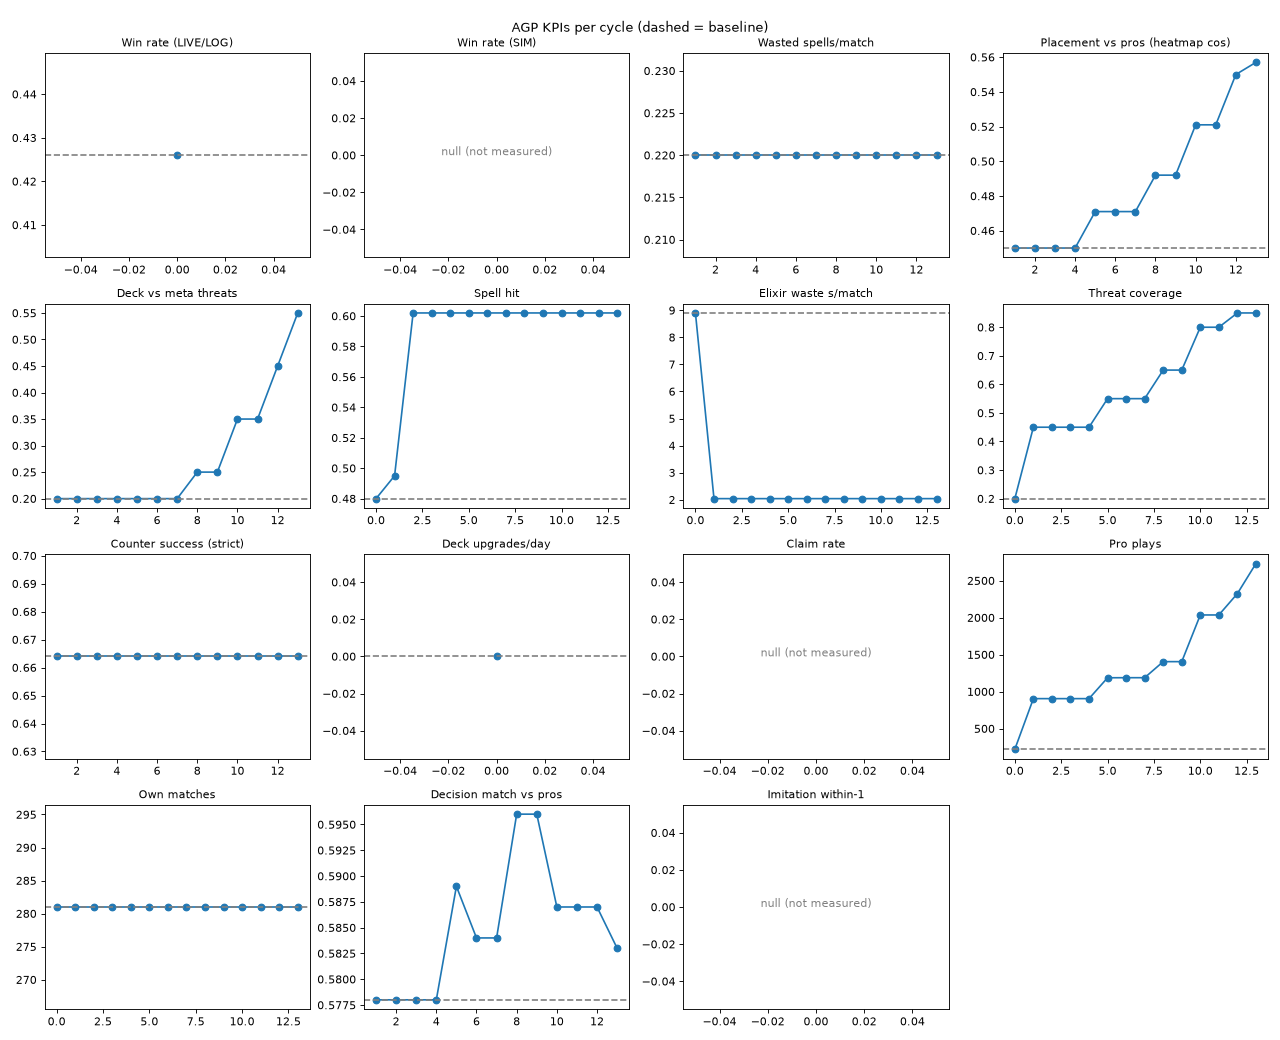
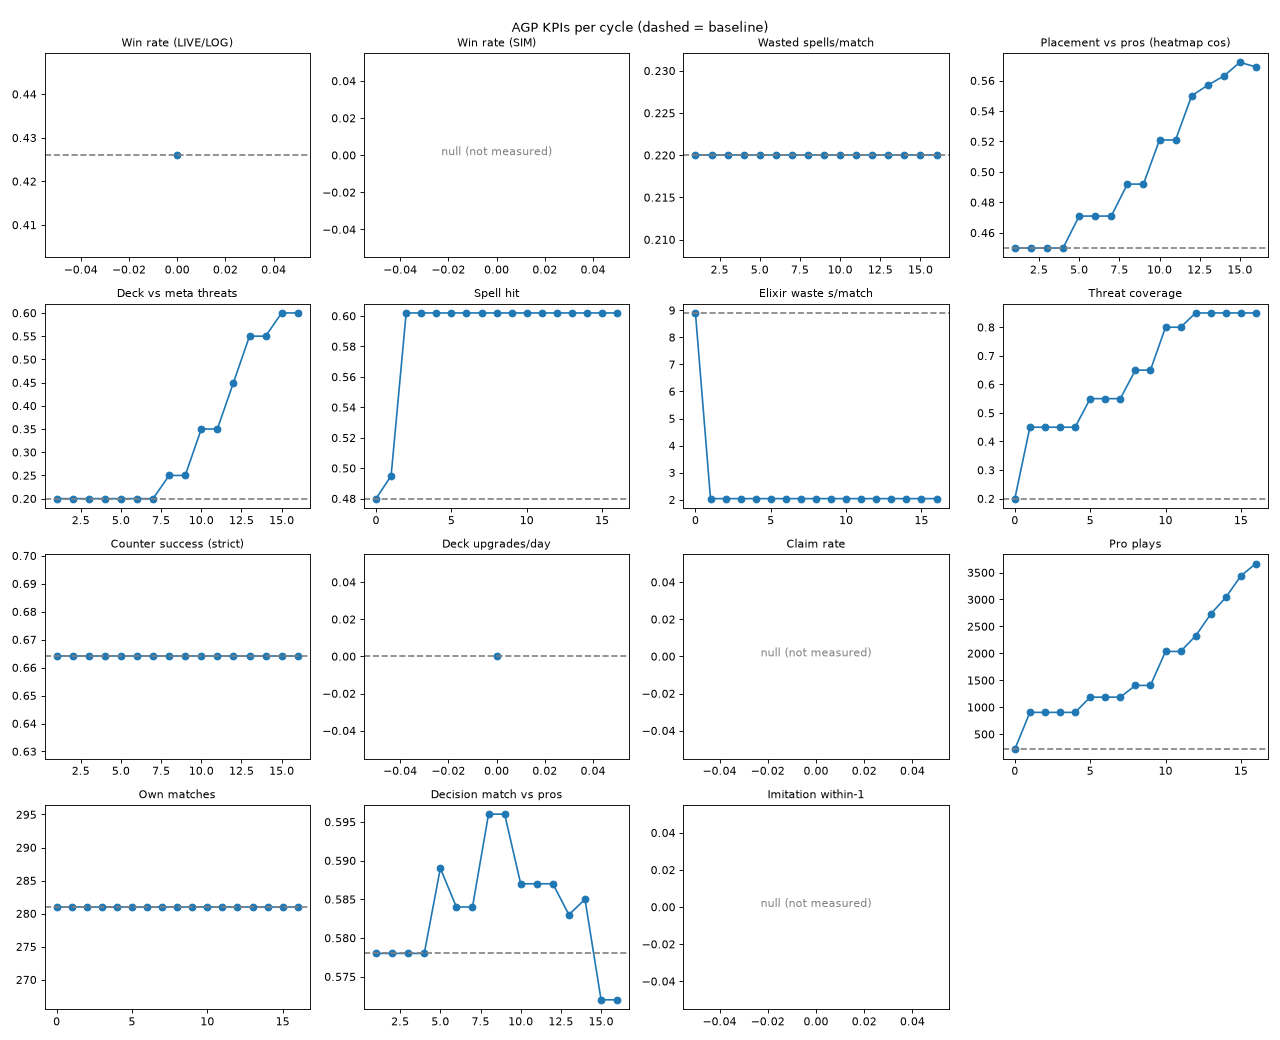
AGP progress dashboard 2026-11-01T15:17:24-08:00

diff --git a/index.html b/index.html
@@ -124,10 +124,10 @@
         <h1>AI Game Player</h1>
         <p class="lede">Progress you can watch — the AI's climb, with receipts.</p>
         <div class="meta-row">
-          <div class="chip">Cycle <strong>#13</strong></div>
+          <div class="chip">Cycle <strong>#16</strong></div>
           <div class="chip">Decision <strong>KEEP</strong></div>
           <div class="chip">Mode <strong>offline</strong></div>
-          <div class="chip">Updated <strong>2026-11-01T10:56:20-08:00</strong></div>
+          <div class="chip">Updated <strong>2026-11-01T15:13:09-08:00</strong></div>
         </div>
         <p class="lede" style="margin-top:18px;font-size:.92rem">Showing SIM / VOD / LOG metrics. Live ladder KPIs stay blank until play is greenlit — practice win rate is never mixed into live win rate.</p>
       </div>
@@ -151,7 +151,7 @@
               <th>Metric</th><th>Baseline</th><th>Current</th><th>Δ</th><th>Trend</th><th>Source</th>
             </tr>
           </thead>
-          <tbody><tr><td class="kpi-name">Win rate<div class="note">Never mix LIVE with SIM/LOG practice WR</div></td><td class="num">42.6%</td><td class="num cur"><span class="pill paused">paused</span></td><td class="num delta flat">—</td><td><span class="trend flat">flat</span></td><td><span class="src">LIVE</span></td></tr><tr><td class="kpi-name">Spell hit rate</td><td class="num">48.0%</td><td class="num cur"><span class="val">60.2%</span></td><td class="num delta up-good">+12.2 pp</td><td><span class="trend up-good">up</span></td><td><span class="src">SIM</span></td></tr><tr><td class="kpi-name">Elixir waste (s)</td><td class="num">8.9</td><td class="num cur"><span class="val">2.04</span></td><td class="num delta down-good">-6.86</td><td><span class="trend down-good">down</span></td><td><span class="src">SIM</span></td></tr><tr><td class="kpi-name">Meta/ladder threat coverage</td><td class="num">20.0%</td><td class="num cur"><span class="val">85.0%</span></td><td class="num delta up-good">+65.0 pp</td><td><span class="trend up-good">up</span></td><td><span class="src">LOG+VOD</span></td></tr><tr><td class="kpi-name">Counter success (strict)</td><td class="num">—</td><td class="num cur"><span class="val">66.4%</span></td><td class="num delta flat">—</td><td><span class="trend flat">flat</span></td><td><span class="src">LOG</span></td></tr><tr><td class="kpi-name">Deck upgrades / day</td><td class="num">0</td><td class="num cur"><span class="val">—</span></td><td class="num delta flat">—</td><td><span class="trend flat">flat</span></td><td><span class="src">LOG</span></td></tr><tr><td class="kpi-name">Reward claim rate</td><td class="num">—</td><td class="num cur"><span class="val">—</span></td><td class="num delta flat">—</td><td><span class="trend flat">flat</span></td><td><span class="src">—</span></td></tr><tr><td class="kpi-name">Pro plays learned</td><td class="num">221</td><td class="num cur"><span class="val">2731</span></td><td class="num delta up-good">+2510</td><td><span class="trend up-good">up</span></td><td><span class="src">VOD</span></td></tr><tr><td class="kpi-name">Own-match sample</td><td class="num">281</td><td class="num cur"><span class="val">281</span></td><td class="num delta flat">0</td><td><span class="trend flat">flat</span></td><td><span class="src">LOG</span></td></tr><tr><td class="kpi-name">Decision-match vs pros</td><td class="num">—</td><td class="num cur"><span class="val">58.3%</span></td><td class="num delta flat">—</td><td><span class="trend flat">flat</span></td><td><span class="src">SIM</span></td></tr><tr><td class="kpi-name">Imitation placement accuracy</td><td class="num">0.23–0.31</td><td class="num cur"><span class="val">—</span></td><td class="num delta flat">—</td><td><span class="trend flat">flat</span></td><td><span class="src">SIM</span></td></tr><tr><td class="kpi-name">Placement accuracy (SIM)</td><td class="num">—</td><td class="num cur"><span class="val">55.7%</span></td><td class="num delta flat">—</td><td><span class="trend flat">flat</span></td><td><span class="src">SIM+VOD</span></td></tr><tr><td class="kpi-name">Deck building vs meta</td><td class="num">—</td><td class="num cur"><span class="val">55.0%</span></td><td class="num delta flat">—</td><td><span class="trend flat">flat</span></td><td><span class="src">LOG+WEB</span></td></tr></tbody>
+          <tbody><tr><td class="kpi-name">Win rate<div class="note">Never mix LIVE with SIM/LOG practice WR</div></td><td class="num">42.6%</td><td class="num cur"><span class="pill paused">paused</span></td><td class="num delta flat">—</td><td><span class="trend flat">flat</span></td><td><span class="src">LIVE</span></td></tr><tr><td class="kpi-name">Spell hit rate</td><td class="num">48.0%</td><td class="num cur"><span class="val">60.2%</span></td><td class="num delta up-good">+12.2 pp</td><td><span class="trend up-good">up</span></td><td><span class="src">SIM</span></td></tr><tr><td class="kpi-name">Elixir waste (s)</td><td class="num">8.9</td><td class="num cur"><span class="val">2.04</span></td><td class="num delta down-good">-6.86</td><td><span class="trend down-good">down</span></td><td><span class="src">SIM</span></td></tr><tr><td class="kpi-name">Meta/ladder threat coverage</td><td class="num">20.0%</td><td class="num cur"><span class="val">85.0%</span></td><td class="num delta up-good">+65.0 pp</td><td><span class="trend up-good">up</span></td><td><span class="src">LOG+VOD</span></td></tr><tr><td class="kpi-name">Counter success (strict)</td><td class="num">—</td><td class="num cur"><span class="val">66.4%</span></td><td class="num delta flat">—</td><td><span class="trend flat">flat</span></td><td><span class="src">LOG</span></td></tr><tr><td class="kpi-name">Deck upgrades / day</td><td class="num">0</td><td class="num cur"><span class="val">—</span></td><td class="num delta flat">—</td><td><span class="trend flat">flat</span></td><td><span class="src">LOG</span></td></tr><tr><td class="kpi-name">Reward claim rate</td><td class="num">—</td><td class="num cur"><span class="val">—</span></td><td class="num delta flat">—</td><td><span class="trend flat">flat</span></td><td><span class="src">—</span></td></tr><tr><td class="kpi-name">Pro plays learned</td><td class="num">221</td><td class="num cur"><span class="val">3667</span></td><td class="num delta up-good">+3446</td><td><span class="trend up-good">up</span></td><td><span class="src">VOD</span></td></tr><tr><td class="kpi-name">Own-match sample</td><td class="num">281</td><td class="num cur"><span class="val">281</span></td><td class="num delta flat">0</td><td><span class="trend flat">flat</span></td><td><span class="src">LOG</span></td></tr><tr><td class="kpi-name">Decision-match vs pros</td><td class="num">—</td><td class="num cur"><span class="val">57.2%</span></td><td class="num delta flat">—</td><td><span class="trend flat">flat</span></td><td><span class="src">SIM</span></td></tr><tr><td class="kpi-name">Imitation placement accuracy</td><td class="num">0.23–0.31</td><td class="num cur"><span class="val">—</span></td><td class="num delta flat">—</td><td><span class="trend flat">flat</span></td><td><span class="src">SIM</span></td></tr><tr><td class="kpi-name">Placement accuracy (SIM)</td><td class="num">—</td><td class="num cur"><span class="val">56.9%</span></td><td class="num delta flat">—</td><td><span class="trend flat">flat</span></td><td><span class="src">SIM+VOD</span></td></tr><tr><td class="kpi-name">Deck building vs meta</td><td class="num">—</td><td class="num cur"><span class="val">60.0%</span></td><td class="num delta flat">—</td><td><span class="trend flat">flat</span></td><td><span class="src">LOG+WEB</span></td></tr></tbody>
         </table>
       </div>
     </section>
@@ -163,7 +163,7 @@
           <p>Placement, deck quality, counters, spell aim, elixir, upgrades</p>
         </div>
       </div>
-      <div class="axes"><div class="axis-card"><div class="axis-label">Placement accuracy</div><div class="axis-value">55.7%</div><div class="axis-meta"><span class="src">SIM+VOD</span> · SIM heatmap / VOD overlays</div></div><div class="axis-card"><div class="axis-label">Deck building vs meta</div><div class="axis-value">55.0%</div><div class="axis-meta"><span class="src">LOG+WEB</span> · Alignment to seen-opponent / meta plans</div></div><div class="axis-card"><div class="axis-label">Counters</div><div class="axis-value">66.4%</div><div class="axis-meta"><span class="src">LOG</span> · Strict counter success</div></div><div class="axis-card"><div class="axis-label">Spell aim</div><div class="axis-value">60.2%</div><div class="axis-meta"><span class="src">SIM</span> · Spell impact audit / SIM casts</div></div><div class="axis-card"><div class="axis-label">Movement / elixir</div><div class="axis-value">2.04</div><div class="axis-meta"><span class="src">SIM</span> · Seconds elixir wasted (lower better)</div></div><div class="axis-card"><div class="axis-label">Upgrades / rewards</div><div class="axis-value">paused</div><div class="axis-meta"><span class="src">LIVE</span> · LIVE paused until James greenlights play</div></div></div>
+      <div class="axes"><div class="axis-card"><div class="axis-label">Placement accuracy</div><div class="axis-value">56.9%</div><div class="axis-meta"><span class="src">SIM+VOD</span> · SIM heatmap / VOD overlays</div></div><div class="axis-card"><div class="axis-label">Deck building vs meta</div><div class="axis-value">60.0%</div><div class="axis-meta"><span class="src">LOG+WEB</span> · Alignment to seen-opponent / meta plans</div></div><div class="axis-card"><div class="axis-label">Counters</div><div class="axis-value">66.4%</div><div class="axis-meta"><span class="src">LOG</span> · Strict counter success</div></div><div class="axis-card"><div class="axis-label">Spell aim</div><div class="axis-value">60.2%</div><div class="axis-meta"><span class="src">SIM</span> · Spell impact audit / SIM casts</div></div><div class="axis-card"><div class="axis-label">Movement / elixir</div><div class="axis-value">2.04</div><div class="axis-meta"><span class="src">SIM</span> · Seconds elixir wasted (lower better)</div></div><div class="axis-card"><div class="axis-label">Upgrades / rewards</div><div class="axis-value">paused</div><div class="axis-meta"><span class="src">LIVE</span> · LIVE paused until James greenlights play</div></div></div>
     </section>
 
     <section>
@@ -203,7 +203,7 @@
     </footer>
   </div>
 <script>
-const HIST = [{"cycle": 0, "spell_hit": 0.48, "counter": null, "placement": null, "decision": null, "elixir": 8.9, "decision_tag": "BASELINE"}, {"cycle": 1, "spell_hit": 0.495, "counter": 0.664, "placement": 0.45, "decision": 0.578, "elixir": 2.04, "decision_tag": "KEEP"}, {"cycle": 2, "spell_hit": 0.602, "counter": 0.664, "placement": 0.45, "decision": 0.578, "elixir": 2.04, "decision_tag": "REVERT"}, {"cycle": 3, "spell_hit": 0.602, "counter": 0.664, "placement": 0.45, "decision": 0.578, "elixir": 2.04, "decision_tag": "KEEP"}, {"cycle": 4, "spell_hit": 0.602, "counter": 0.664, "placement": 0.45, "decision": 0.578, "elixir": 2.04, "decision_tag": "REVERT"}, {"cycle": 5, "spell_hit": 0.602, "counter": 0.664, "placement": 0.471, "decision": 0.589, "elixir": 2.04, "decision_tag": "KEEP"}, {"cycle": 6, "spell_hit": 0.602, "counter": 0.664, "placement": 0.471, "decision": 0.584, "elixir": 2.04, "decision_tag": "KEEP"}, {"cycle": 7, "spell_hit": 0.602, "counter": 0.664, "placement": 0.471, "decision": 0.584, "elixir": 2.04, "decision_tag": "REVERT"}, {"cycle": 8, "spell_hit": 0.602, "counter": 0.664, "placement": 0.492, "decision": 0.596, "elixir": 2.04, "decision_tag": "KEEP"}, {"cycle": 9, "spell_hit": 0.602, "counter": 0.664, "placement": 0.492, "decision": 0.596, "elixir": 2.04, "decision_tag": "REVERT"}, {"cycle": 10, "spell_hit": 0.602, "counter": 0.664, "placement": 0.521, "decision": 0.587, "elixir": 2.04, "decision_tag": "KEEP"}, {"cycle": 11, "spell_hit": 0.602, "counter": 0.664, "placement": 0.521, "decision": 0.587, "elixir": 2.04, "decision_tag": "REVERT"}, {"cycle": 12, "spell_hit": 0.602, "counter": 0.664, "placement": 0.55, "decision": 0.587, "elixir": 2.04, "decision_tag": "KEEP"}, {"cycle": 13, "spell_hit": 0.602, "counter": 0.664, "placement": 0.557, "decision": 0.583, "elixir": 2.04, "decision_tag": "KEEP"}];
+const HIST = [{"cycle": 0, "spell_hit": 0.48, "counter": null, "placement": null, "decision": null, "elixir": 8.9, "decision_tag": "BASELINE"}, {"cycle": 1, "spell_hit": 0.495, "counter": 0.664, "placement": 0.45, "decision": 0.578, "elixir": 2.04, "decision_tag": "KEEP"}, {"cycle": 2, "spell_hit": 0.602, "counter": 0.664, "placement": 0.45, "decision": 0.578, "elixir": 2.04, "decision_tag": "REVERT"}, {"cycle": 3, "spell_hit": 0.602, "counter": 0.664, "placement": 0.45, "decision": 0.578, "elixir": 2.04, "decision_tag": "KEEP"}, {"cycle": 4, "spell_hit": 0.602, "counter": 0.664, "placement": 0.45, "decision": 0.578, "elixir": 2.04, "decision_tag": "REVERT"}, {"cycle": 5, "spell_hit": 0.602, "counter": 0.664, "placement": 0.471, "decision": 0.589, "elixir": 2.04, "decision_tag": "KEEP"}, {"cycle": 6, "spell_hit": 0.602, "counter": 0.664, "placement": 0.471, "decision": 0.584, "elixir": 2.04, "decision_tag": "KEEP"}, {"cycle": 7, "spell_hit": 0.602, "counter": 0.664, "placement": 0.471, "decision": 0.584, "elixir": 2.04, "decision_tag": "REVERT"}, {"cycle": 8, "spell_hit": 0.602, "counter": 0.664, "placement": 0.492, "decision": 0.596, "elixir": 2.04, "decision_tag": "KEEP"}, {"cycle": 9, "spell_hit": 0.602, "counter": 0.664, "placement": 0.492, "decision": 0.596, "elixir": 2.04, "decision_tag": "REVERT"}, {"cycle": 10, "spell_hit": 0.602, "counter": 0.664, "placement": 0.521, "decision": 0.587, "elixir": 2.04, "decision_tag": "KEEP"}, {"cycle": 11, "spell_hit": 0.602, "counter": 0.664, "placement": 0.521, "decision": 0.587, "elixir": 2.04, "decision_tag": "REVERT"}, {"cycle": 12, "spell_hit": 0.602, "counter": 0.664, "placement": 0.55, "decision": 0.587, "elixir": 2.04, "decision_tag": "KEEP"}, {"cycle": 13, "spell_hit": 0.602, "counter": 0.664, "placement": 0.557, "decision": 0.583, "elixir": 2.04, "decision_tag": "KEEP"}, {"cycle": 14, "spell_hit": 0.602, "counter": 0.664, "placement": 0.563, "decision": 0.585, "elixir": 2.04, "decision_tag": "KEEP"}, {"cycle": 15, "spell_hit": 0.602, "counter": 0.664, "placement": 0.572, "decision": 0.572, "elixir": 2.04, "decision_tag": "KEEP"}, {"cycle": 16, "spell_hit": 0.602, "counter": 0.664, "placement": 0.569, "decision": 0.572, "elixir": 2.04, "decision_tag": "KEEP"}];
 function drawLine(canvas, series, colors) {
   const dpr = window.devicePixelRatio || 1;
   const rect = canvas.getBoundingClientRect();
